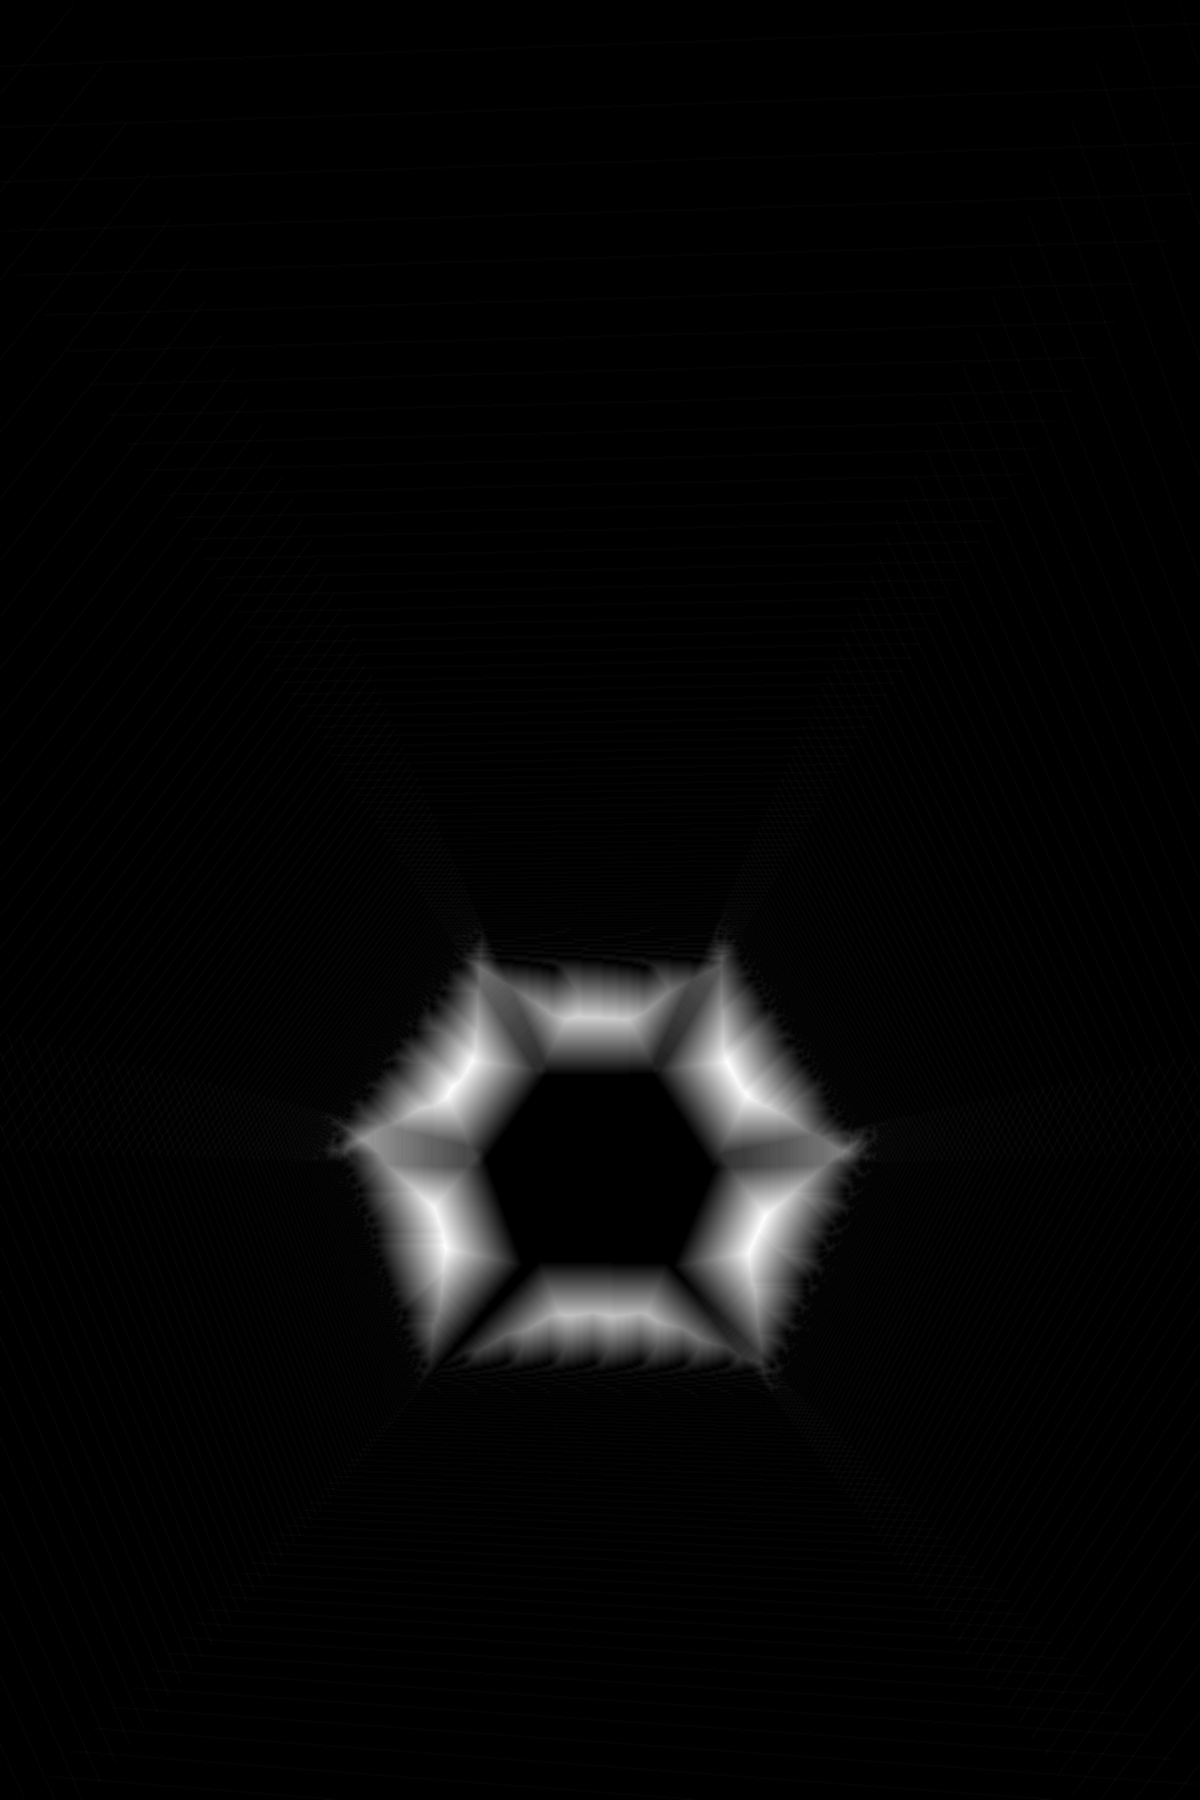
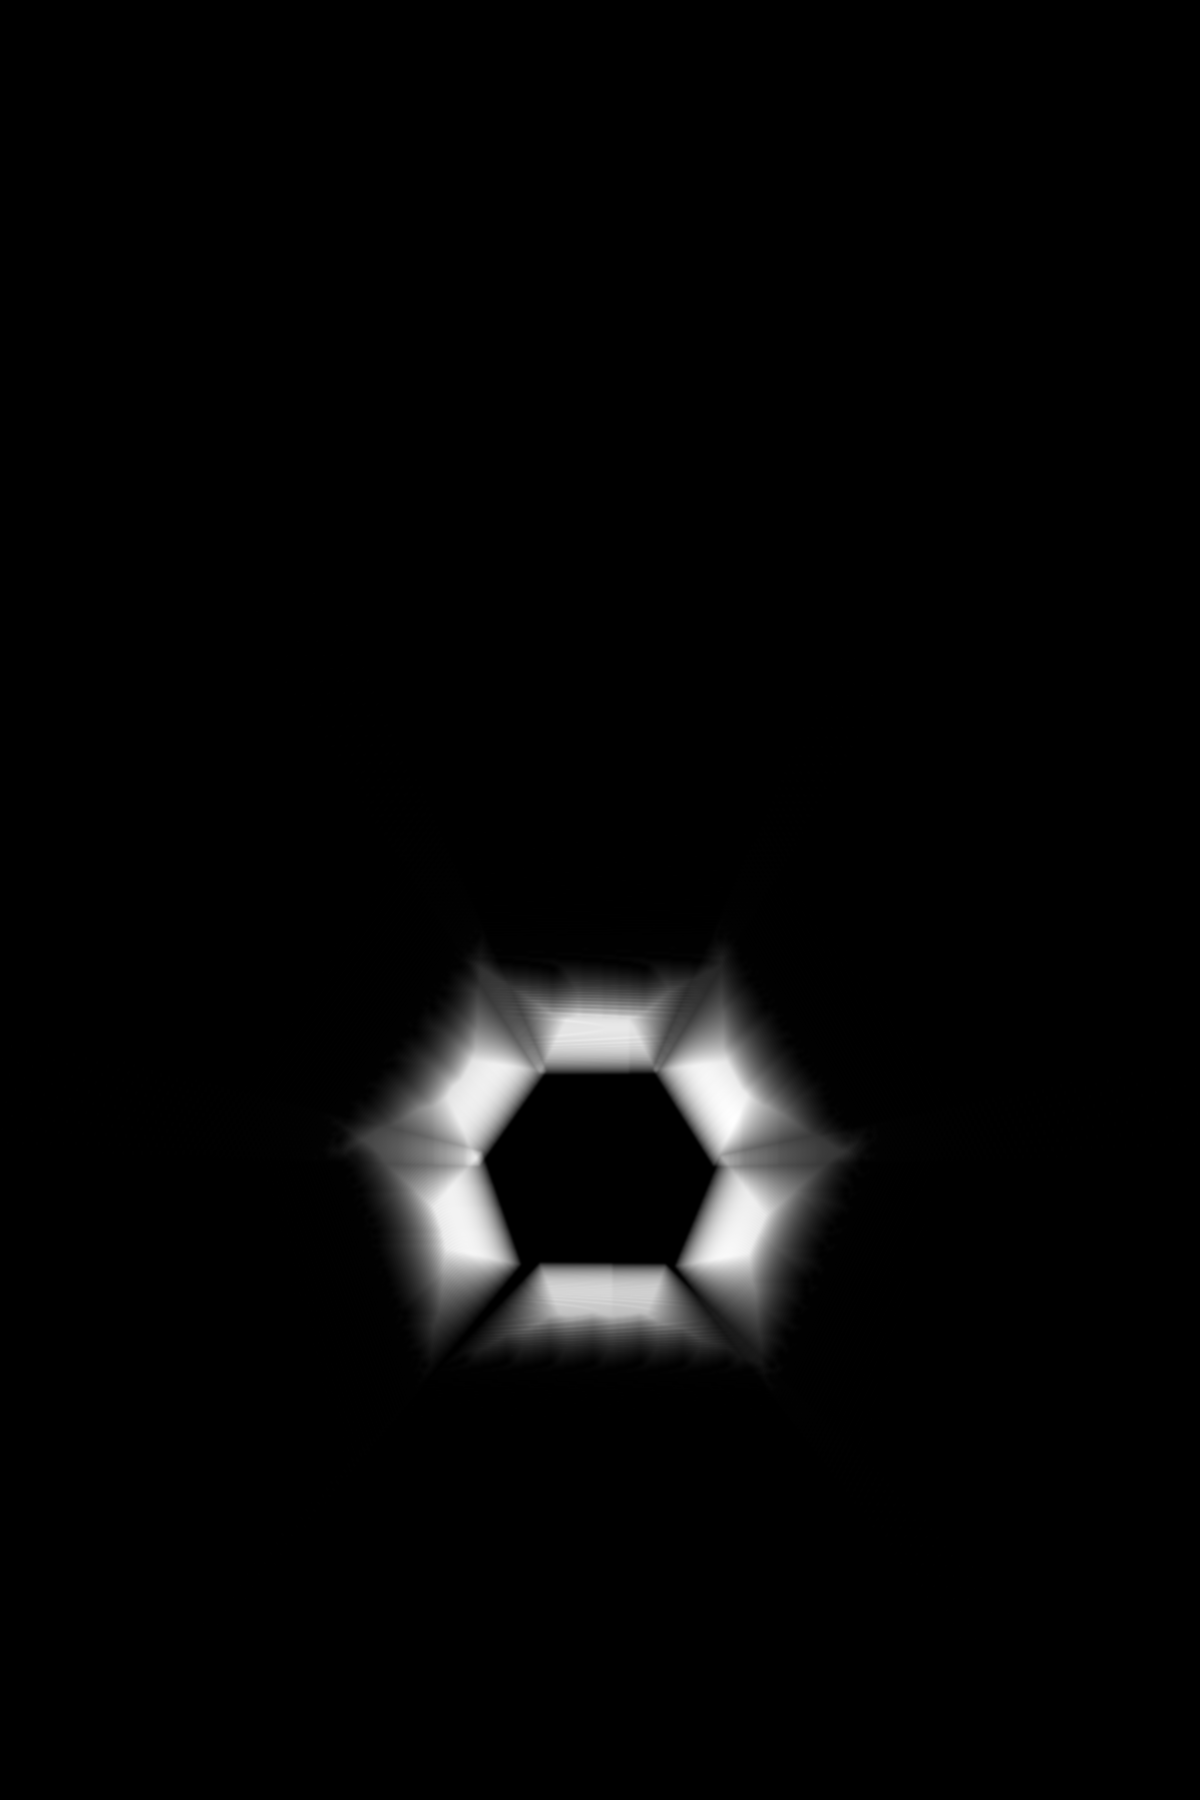
updated

Changed region(s): [[0.2775, 0.5289, 0.74, 0.7778]]

diff --git a/runProjection.py b/runProjection.py
@@ -75,6 +75,8 @@ def main() -> None:
     p.add_argument("--save_wsum", action="store_true")
     p.add_argument("--stride", type=int, default=2, help="Splat stride (1 = best, slower)")
     p.add_argument("--z_plane", type=float, default=0.0, help="Ground plane height in ego frame")
+    p.add_argument("--fill_holes", action="store_true", help="Visual-only: inpaint wsum==0 pixels.")
+    p.add_argument("--inpaint_radius", type=int, default=5, help="Inpaint radius for hole filling")
     p.add_argument("--no_flip_axes", action="store_true", help="Keep legacy axes (x down, y right).")
     p.add_argument("--quiet", action="store_true")
     args = p.parse_args()
@@ -138,6 +140,14 @@ def main() -> None:
         feather_px=args.feather_px,
         weight_blur_sigma=1.0,  # try 0.0 / 1.0 / 2.0
     )
+
+    # Visual-only (not "geometrically correct") fill for unobserved regions
+    if args.fill_holes:
+        eps = 1e-6
+        ok = wsum > eps
+        if np.any(~ok):
+            hole_mask = (~ok).astype(np.uint8) * 255
+            stitched = cv2.inpaint(stitched, hole_mask, float(args.inpaint_radius), cv2.INPAINT_TELEA)
 
     cv2.imwrite(out_path, stitched)
 
